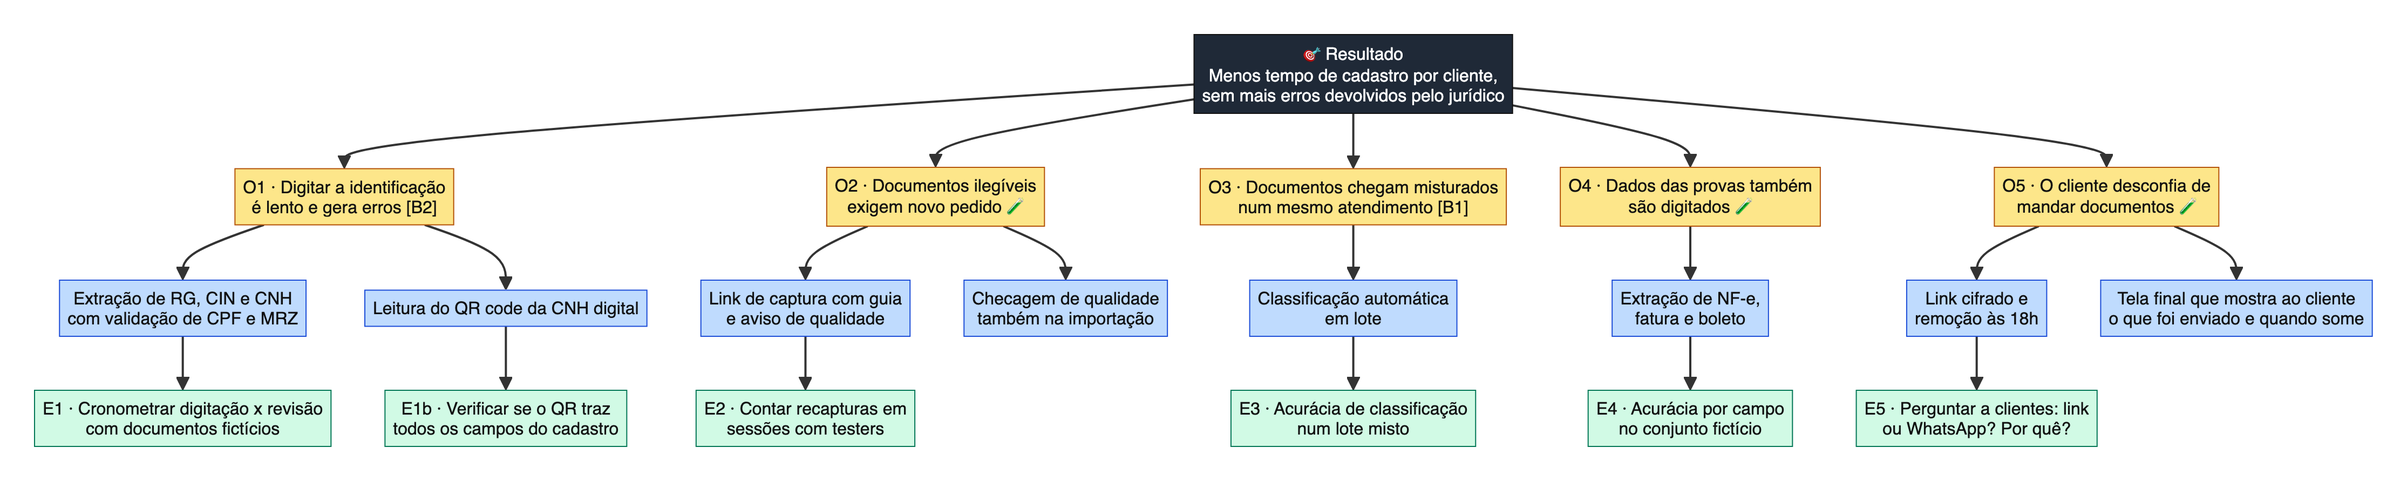
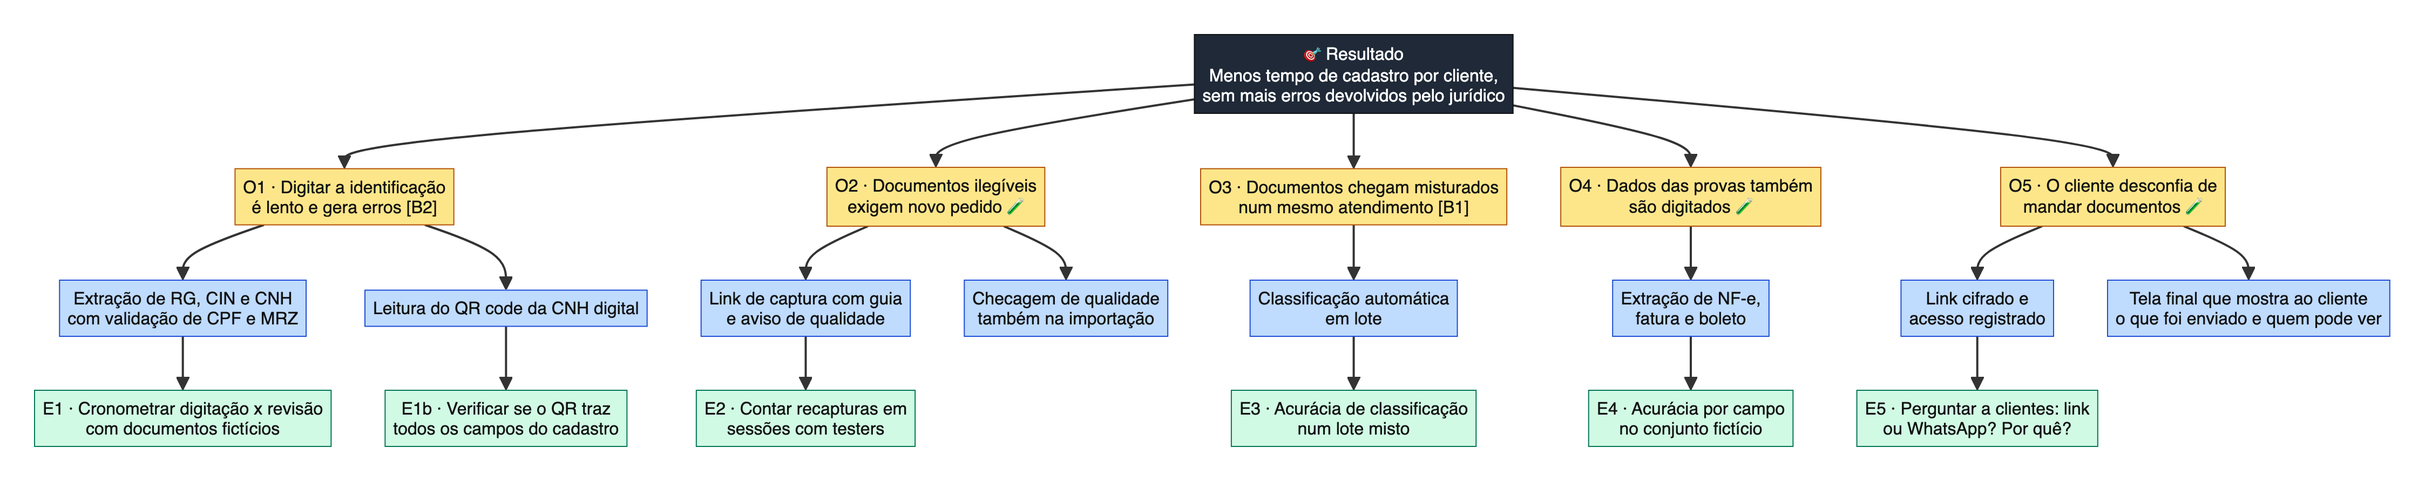
ADR 0008: armazenamento em produção; regra das 18h restrita ao estudo de caso

diff --git a/docs/etapas/04-estrategia.md b/docs/etapas/04-estrategia.md
@@ -16,9 +16,11 @@ As afirmações seguem as marcações das personas: **[A1]–[B4]** indicam acha
 > **que** perdem tempo digitando documentos e pagam caro por um erro que chega ao processo,
 > **o produto** é um cadastro por documentos que identifica, lê e confere os dados sozinho,
 > **e que**, diferente do cadastro por foto de um documento por vez, cobre identificação, comprovante e provas num único atendimento,
-> **com** retenção mínima: tudo é cifrado e nada sobrevive às 18h.
+> **com** documentos cifrados do celular ao armazenamento e cada acesso registrado.
 
-**Em uma frase:** cadastrar um cliente completo, de forma ágil e precisa, sem digitar e sem guardar o que não precisa.
+**Em uma frase:** cadastrar um cliente completo, de forma ágil e precisa, sem digitar e com os documentos protegidos.
+
+A visão, o PR/FAQ e os mapas de jornada descrevem o **produto em produção** ([ADR 0008](../decisoes/0008-armazenamento-em-producao.md)). A remoção às 18h é uma regra do estudo de caso ([ADR 0007](../decisoes/0007-retencao-temporaria-e-purga-diaria.md)) e não aparece como promessa ao cliente.
 
 ### Princípios de produto
 
@@ -26,7 +28,7 @@ As afirmações seguem as marcações das personas: **[A1]–[B4]** indicam acha
 |---|---|---|
 | **Revisão humana sempre** | O sistema sugere e a pessoa confirma. Nenhum dado vai adiante sem confirmação | [ADR 0004](../decisoes/0004-revisao-humana-e-ciclo-de-aprendizado.md) |
 | **Conferir antes de mostrar** | Todo campo com dígito verificador (CPF, chave da NF-e, linha digitável, MRZ) é validado antes da revisão | [Validadores](../../src/extracao/validacoes.py) |
-| **Servidor cego** | O servidor transporta e guarda só conteúdo cifrado | [ADR 0001](../decisoes/0001-transporte-cross-device.md), [ADR 0007](../decisoes/0007-retencao-temporaria-e-purga-diaria.md) |
+| **Proteção do início ao fim** | A captura é cifrada ponta a ponta; o armazenamento é cifrado e cada acesso fica registrado | [ADR 0001](../decisoes/0001-transporte-cross-device.md), [ADR 0008](../decisoes/0008-armazenamento-em-producao.md) |
 | **Sem instalar nada** | O cliente usa a câmera pelo navegador, a partir de um link | RF-03, HU-14 |
 | **Recusar é melhor que errar** | Diante da dúvida, o sistema marca "não reconhecido" em vez de inventar um valor | RF-10, RF-15 |
 
@@ -36,7 +38,7 @@ As afirmações seguem as marcações das personas: **[A1]–[B4]** indicam acha
 |---|---|
 | Software de gestão jurídica | O cadastro alimenta essas ferramentas; não as substitui **[B4]** |
 | Verificação de identidade (KYC) | Não faz biometria nem prova de vida; esse mercado já é atendido **[A4]** |
-| Arquivo de documentos | O escritório guarda os arquivos no próprio ambiente; o produto remove tudo às 18h |
+| Gestão eletrônica de documentos | Guarda os documentos do cadastro, mas não organiza processos nem peças; isso é papel do software jurídico |
 | Leitor de qualquer documento | Seis tipos, escolhidos por aparecerem no mesmo atendimento **[B1]** |
 
 ---
@@ -63,8 +65,8 @@ flowchart TB
     O2 --> S2b["Checagem de qualidade<br/>também na importação"]
     O3 --> S3a["Classificação automática<br/>em lote"]
     O4 --> S4a["Extração de NF-e,<br/>fatura e boleto"]
-    O5 --> S5a["Link cifrado e<br/>remoção às 18h"]
-    O5 --> S5b["Tela final que mostra ao cliente<br/>o que foi enviado e quando some"]
+    O5 --> S5a["Link cifrado e<br/>acesso registrado"]
+    O5 --> S5b["Tela final que mostra ao cliente<br/>o que foi enviado e quem pode ver"]
 
     S1a --> E1["E1 · Cronometrar digitação x revisão<br/>com documentos fictícios"]
     S1b --> E1b["E1b · Verificar se o QR traz<br/>todos os campos do cadastro"]
@@ -111,13 +113,13 @@ Formato da Amazon (*Working Backwards*): a comunicação de lançamento é escri
 
 > **Escritórios de direito do consumidor passam a cadastrar clientes completos em uma única interação, sem digitar**
 >
-> *Identificação, comprovante de residência e provas do caso são lidos, conferidos e separados automaticamente, e nada fica guardado depois das 18h*
+> *Identificação, comprovante de residência e provas do caso são lidos, conferidos e separados automaticamente, com os documentos protegidos do celular ao arquivo*
 >
 > Um escritório de advocacia de massa recebe dezenas de clientes por dia. Cada um envia RG ou CNH, uma conta de luz e as provas da cobrança que contesta: notas fiscais, faturas e boletos. Hoje, uma assistente digita esses dados, documento por documento, e um CPF errado na procuração volta da equipe jurídica ou chega ao processo.
 >
 > Com o novo cadastro por documentos, a assistente envia ao cliente um link. Ele fotografa os documentos com o celular, sem instalar nada, e os dados aparecem no computador do escritório já separados por tipo e conferidos: CPF, chave da nota fiscal e linha digitável do boleto passam por validação antes de chegar à tela. A assistente só confirma ou corrige cada campo. Arquivos recebidos pelo WhatsApp podem ser importados da mesma forma.
 >
-> Os documentos trafegam cifrados de ponta a ponta. Durante o dia ficam guardados na nuvem, ainda cifrados e com uma chave que só o escritório tem. Às 18h tudo é removido e a chave é destruída.
+> Os documentos trafegam cifrados de ponta a ponta e ficam guardados cifrados, com uma chave exclusiva de cada escritório. Só pessoas autorizadas acessam, cada acesso é registrado, e os documentos são apagados automaticamente no prazo que o escritório definir.
 >
 > *"Antes eu digitava três documentos por cliente e conferia o CPF duas vezes. Agora eu confiro só o que o sistema marca em dúvida"*, diz Juliana, assistente de cadastro de um escritório fictício usado no estudo.
 
@@ -129,8 +131,8 @@ Formato da Amazon (*Working Backwards*): a comunicação de lançamento é escri
 | O cliente precisa instalar um aplicativo? | Não. O link abre a câmera no navegador do celular. |
 | E se a foto ficar ruim? | A página de captura avisa antes do envio e pede uma nova foto. |
 | O sistema pode errar? | Pode. Por isso nada segue sem a confirmação de uma pessoa, e os campos com dígito verificador são conferidos antes. |
-| Onde ficam os documentos? | Cifrados na nuvem até as 18h do mesmo dia. Depois disso, só no pacote que o escritório baixou e guarda no próprio ambiente. |
-| E se eu esquecer de baixar? | A partir das 17h o sistema avisa e mostra uma contagem regressiva. Às 18h, o que não foi baixado é perdido. |
+| Onde ficam os documentos? | Cifrados na nuvem, com uma chave exclusiva do escritório. Só usuários autorizados acessam, e cada acesso fica registrado. |
+| Por quanto tempo ficam guardados? | Pelo prazo que o escritório definir. Depois são apagados automaticamente, e o cliente pode pedir a exclusão a qualquer momento (LGPD). |
 
 ### Perguntas internas
 
@@ -171,9 +173,9 @@ O mapa mostra a jornada **atual** (sem o produto), com ações, pensamentos, emo
 | **Emoção** | 🙂 | 😐 | 😕 | 😟 | 😐 |
 | **Dor** | — | Lista confusa | Não sabe se a foto serve | Insegurança com os documentos | Não sabe se precisa reenviar |
 | **Oportunidade** | — | O2 | O2 | O5 | O2 |
-| **Com o produto** | — | Recebe um link com a lista | A página guia a foto e avisa se ficou ruim | Envio cifrado; sabe quando os dados somem | Vê a confirmação na tela |
+| **Com o produto** | — | Recebe um link com a lista | A página guia a foto e avisa se ficou ruim | Envio cifrado; sabe quem terá acesso | Vê a confirmação na tela |
 
-**Momento crítico:** a fase 4. O WhatsApp é o hábito. O link precisa ser mais simples que ele, e a promessa de remoção às 18h é o que pode convencer Roberto a trocar (E5).
+**Momento crítico:** a fase 4. O WhatsApp é o hábito. O link precisa ser mais simples que ele, e a garantia de que só o escritório acessa os documentos é o que pode convencer Roberto a trocar (E5).
 
 ---
 
@@ -181,6 +183,7 @@ O mapa mostra a jornada **atual** (sem o produto), com ações, pensamentos, emo
 
 - **A ordem foi invertida.** Na prática, visão e árvore de oportunidades vêm antes do PRD. Aqui o PRD veio primeiro (Etapa 2) e a árvore serviu para conferi-lo. A conferência encontrou um ponto que o PRD não cobria: a checagem de qualidade na importação (S2b).
 - **Oportunidades sem dados primários.** O2, O4 e O5 dependem das entrevistas. A ordem da tabela de oportunidades pode mudar depois delas.
+- **Estudo e produção foram misturados na primeira versão.** A remoção às 18h, regra de proteção do estudo, chegou a aparecer como promessa ao cliente. A correção separou os dois contextos nos ADRs [0007](../decisoes/0007-retencao-temporaria-e-purga-diaria.md) e [0008](../decisoes/0008-armazenamento-em-producao.md).
 - **O PR/FAQ é um exercício de clareza, não uma previsão.** Os depoimentos são de personas, não de pessoas reais.
 
 ## Entregáveis

diff --git a/docs/requisitos.md b/docs/requisitos.md
@@ -6,7 +6,7 @@
 
 ## 1. Resumo
 
-Sistema que recebe documentos por **importação de arquivo** no computador ou por **captura com o celular** (fluxo cross-device via QR code), identifica automaticamente o tipo, extrai os dados e os exibe numa tela de revisão para o usuário confirmar ou recusar cada campo. O que o sistema guarda fica cifrado com uma chave que só o escritório tem e é removido às 18h de cada dia ([ADR 0007](decisoes/0007-retencao-temporaria-e-purga-diaria.md)).
+Sistema que recebe documentos por **importação de arquivo** no computador ou por **captura com o celular** (fluxo cross-device via QR code), identifica automaticamente o tipo, extrai os dados e os exibe numa tela de revisão para o usuário confirmar ou recusar cada campo. No estudo de caso, o que o sistema guarda fica cifrado e é removido às 18h de cada dia ([ADR 0007](decisoes/0007-retencao-temporaria-e-purga-diaria.md)); em produção, os documentos seriam guardados cifrados pelo prazo que o escritório definir ([ADR 0008](decisoes/0008-armazenamento-em-producao.md)).
 
 ## 2. Problema
 
@@ -24,9 +24,17 @@ Detalhamento, fontes e histórico em [Personas](persona.md).
 
 ## 4. Tese do MVP
 
-> É possível cadastrar um cliente, com identificação, comprovante de residência e provas, numa única interação, de forma **ágil** e **precisa**, capturando os documentos pelo celular do próprio cliente ou importando arquivos, com retenção mínima: tudo o que o sistema guarda é cifrado e removido às 18h de cada dia.
+> É possível cadastrar um cliente, com identificação, comprovante de residência e provas, numa única interação, de forma **ágil** e **precisa**, capturando os documentos pelo celular do próprio cliente ou importando arquivos, com os documentos protegidos do envio ao armazenamento.
 
-**Promessa de privacidade:** o servidor nunca vê o conteúdo, e nada sobrevive às 18h. Dados e fotos podem ficar salvos na nuvem durante o dia, sempre cifrados com uma chave que só o escritório tem; às 18h (Brasília) tudo é removido e a chave é destruída, e nenhum item permanece por 24h ([ADR 0007](decisoes/0007-retencao-temporaria-e-purga-diaria.md)). O pacote baixado fica sob responsabilidade do escritório, como controlador dos dados (LGPD).
+**Segurança dos dados, em dois contextos:**
+
+| | Estudo de caso (o que é construído) | Produção (desenho de referência) |
+|---|---|---|
+| Regra | Nada sobrevive às 18h; nenhum item chega a 24h ([ADR 0007](decisoes/0007-retencao-temporaria-e-purga-diaria.md)) | Documentos guardados pelo prazo que o escritório definir ([ADR 0008](decisoes/0008-armazenamento-em-producao.md)) |
+| Por quê | Proteger os documentos de quem testa o sistema | O escritório precisa dos documentos durante todo o processo |
+| Criptografia | Chave do dia só no navegador do escritório; servidor não lê | Chave por escritório num KMS; servidor lê só sob controle de acesso e auditoria |
+
+Nos dois contextos, a captura pelo celular é cifrada ponta a ponta e o escritório é o controlador dos dados (LGPD).
 
 ## 5. Escopo
 
@@ -113,10 +121,10 @@ Prioridade MoSCoW: **M** = obrigatório, **S** = importante, **C** = desejável,
 
 | ID | Categoria | Requisito | Critério de aceite | Prior. |
 |---|---|---|---|---|
-| RNF-01 | Privacidade | Retenção máxima até as 18h do dia, nunca 24h ou mais; nada persiste no celular | Teste automatizado verifica, após as 18h, tabela e Storage vazios, chave do dia inexistente e nenhum item com mais de 24h; celular sem resíduo após a sessão | M |
+| RNF-01 | Privacidade (estudo) | Retenção máxima até as 18h do dia, nunca 24h ou mais; nada persiste no celular | Teste automatizado verifica, após as 18h, tabela e Storage vazios, chave do dia inexistente e nenhum item com mais de 24h; celular sem resíduo após a sessão | M |
 | RNF-12 | Privacidade | Conteúdo salvo sempre cifrado | Nenhum campo de conteúdo legível no banco ou no Storage; chave do dia nunca enviada ao servidor | M |
 | RNF-02 | Privacidade | Documento real não sai do celular e do computador em texto aberto | Só dados cifrados trafegam pelo canal de repasse; motor de leitura é local | M |
-| RNF-03 | Privacidade | Remoção diária às 18h em três camadas | Destruição da chave, tarefa agendada às 18h e limite de 24h executado de hora em hora, cada uma com registro anônimo ([ADR 0007](decisoes/0007-retencao-temporaria-e-purga-diaria.md)) | M |
+| RNF-03 | Privacidade (estudo) | Remoção diária às 18h em três camadas | Destruição da chave, tarefa agendada às 18h e limite de 24h executado de hora em hora, cada uma com registro anônimo ([ADR 0007](decisoes/0007-retencao-temporaria-e-purga-diaria.md)) | M |
 | RNF-04 | Segurança | Sessão protegida contra uso indevido | Identificador e chave aleatórios de 128 bits ou mais; uso único; expiração | M |
 | RNF-05 | Desempenho | Rápido o suficiente | Meta de tempo até o resultado completo definida na etapa de métricas a partir da linha de base | M |
 | RNF-06 | Acurácia | Acerto alto por campo | Meta definida a partir da linha de base no conjunto de desenvolvimento | M |
@@ -135,7 +143,7 @@ Prioridade MoSCoW: **M** = obrigatório, **S** = importante, **C** = desejável,
 | Tempo até o resultado | Da captura ou importação até os campos na tela | A definir na linha de base |
 | Tempo de cadastro por cliente (**ágil**) | Do início da sessão até todos os campos do cliente confirmados | A definir na linha de base |
 | Recapturas por documento | Quantas vezes um documento precisou ser fotografado de novo | A definir na linha de base |
-| Retenção respeitada | % de dias em que nada sobrevive às 18h e nenhum item chega a 24h | 100% |
+| Retenção respeitada (estudo) | % de dias em que nada sobrevive às 18h e nenhum item chega a 24h | 100% |
 | Taxa de "não reconhecido" correto | % de documentos fora do escopo marcados como "não reconhecido" | A definir na linha de base |
 
 ## 10. Premissas e dependências

diff --git a/docs/decisoes/0008-armazenamento-em-producao.md b/docs/decisoes/0008-armazenamento-em-producao.md
@@ -1,0 +1,40 @@
+# 0008 — Armazenamento dos documentos em produção
+
+**Data:** 10/11/2026
+**Status:** Aceita como desenho de referência · **não implementada no estudo de caso**, que segue o [ADR 0007](0007-retencao-temporaria-e-purga-diaria.md)
+
+## Contexto
+
+O [ADR 0007](0007-retencao-temporaria-e-purga-diaria.md) define uma regra do **estudo de caso**: dados e fotos ficam cifrados na nuvem durante o dia e são removidos às 18h. Ela existe para proteger os documentos das pessoas que testam o sistema, e não descreve o produto.
+
+Um escritório em operação precisa guardar os documentos dos clientes por todo o tempo do processo. Várias assistentes acessam o mesmo cadastro, a advogada anexa os arquivos à petição e o cliente pode pedir a exclusão dos dados a qualquer momento (LGPD). Para o produto funcionar de ponta a ponta no estudo, esse armazenamento não precisa ser construído, mas o desenho precisa estar decidido. Sem isso, o estudo deixaria sem resposta uma pergunta óbvia: "e em produção?".
+
+A pergunta central é **quem consegue ler os documentos guardados**.
+
+## Decisão
+
+**Criptografia em repouso controlada pela aplicação, reforçada com chave por escritório, controle de acesso, trilha de auditoria e retenção definida pelo escritório.** O servidor da aplicação consegue ler os documentos, mas só sob regras explícitas e com registro de cada acesso.
+
+| Camada | Como | Protege contra |
+|---|---|---|
+| **Transporte** | TLS em todas as conexões; captura pelo celular continua cifrada ponta a ponta ([ADR 0001](0001-transporte-cross-device.md)) | Interceptação na rede |
+| **Repouso, pelo provedor** | Banco e Storage cifrados pelo provedor (AES-256) | Roubo de disco ou de mídia de backup |
+| **Repouso, pela aplicação** | Criptografia de envelope: cada arquivo tem uma chave própria, protegida por uma **chave mestra do escritório** guardada num serviço de gerenciamento de chaves (KMS), com rotação periódica | Vazamento do banco: o conteúdo copiado continua ilegível sem acesso ao KMS |
+| **Isolamento entre escritórios** | Row Level Security por escritório e chaves mestras separadas | Um escritório ver dados de outro, por erro ou ataque |
+| **Controle de acesso** | Perfis (assistente, advogada, administrador), autenticação com segundo fator, sessões curtas | Acesso indevido dentro do escritório ou por senha vazada |
+| **Trilha de auditoria** | Registro de quem abriu, baixou, alterou ou excluiu cada documento, sem gravar o conteúdo | Uso indevido não detectado; exigência de prestação de contas da LGPD |
+| **Retenção** | Prazo definido por escritório, com exclusão automática ao fim; exclusão e exportação a pedido do titular | Guarda além do necessário |
+| **Backups** | Cifrados, com prazo próprio, e exclusão de chaves aplicada também a eles | Dado excluído que sobrevive em backup |
+
+## Alternativas consideradas
+
+- **Criptografia ponta a ponta com a chave só com o escritório (servidor cego)** — segurança máxima: nem o fornecedor lê os documentos. Mas se o escritório perder a chave, perde todos os documentos; compartilhar entre várias estações e usuários é complexo; busca e processamento no servidor ficam impossíveis. Recusada pelo custo operacional num escritório de massa, onde várias pessoas acessam o mesmo cadastro.
+- **Só a criptografia padrão do provedor** — simples, mas um vazamento do banco ou um acesso indevido ao servidor expõe tudo, e não existe registro de quem acessou o quê. Recusada por ser insuficiente para documentos de identificação.
+- **Manter a remoção diária do ADR 0007 em produção** — incompatível com o uso real: o escritório precisa dos documentos durante todo o processo. Recusada.
+
+## Consequências
+
+- **A segurança passa a depender da confiança no operador.** Quem administra o KMS e o servidor pode, em tese, ler os documentos. A trilha de auditoria e a separação de funções reduzem esse risco, mas não o eliminam. É a troca aceita em favor da operação.
+- **A promessa ao cliente muda.** Ela deixa de ser "nada sobrevive às 18h" e passa a ser "seus documentos ficam cifrados, só pessoas autorizadas do escritório acessam, cada acesso é registrado e tudo é apagado no prazo definido".
+- **Novos componentes:** KMS, perfis de acesso, trilha de auditoria e rotinas de retenção e de exclusão a pedido. Nenhum deles é construído no estudo de caso.
+- **O que o estudo aproveita:** o fluxo de captura cifrado ponta a ponta, a revisão humana e o motor de extração não mudam. Só a camada de armazenamento é trocada.

diff --git a/docs/decisoes/0007-retencao-temporaria-e-purga-diaria.md b/docs/decisoes/0007-retencao-temporaria-e-purga-diaria.md
@@ -1,13 +1,15 @@
 # 0007 — Retenção temporária cifrada com remoção diária às 18h
 
 **Data:** 10/11/2026
-**Status:** Aceita · substitui a regra "nada salvo no servidor" do [ADR 0001](0001-transporte-cross-device.md) e a proibição de banco e Storage do [ADR 0005](0005-infraestrutura-vercel-supabase-realtime.md)
+**Status:** Aceita · **vale só para o estudo de caso**; o armazenamento em produção está no [ADR 0008](0008-armazenamento-em-producao.md) · substitui a regra "nada salvo no servidor" do [ADR 0001](0001-transporte-cross-device.md) e a proibição de banco e Storage do [ADR 0005](0005-infraestrutura-vercel-supabase-realtime.md)
 
 ## Contexto
 
 No segmento de advocacia de alto volume ([Etapa 3](../etapas/03-validacao-do-problema.md)), o escritório precisa dos dados e das fotos ao longo do dia: o cadastro pode ser concluído numa estação e consultado depois, e os arquivos precisam ser baixados para instruir a petição. A regra anterior, de nada salvo em lugar nenhum, impedia esse uso.
 
-Nova regra de produto, definida para o estudo de caso:
+A regra abaixo é do **estudo de caso**, e não do produto. Ela protege os documentos das pessoas que testam o sistema: o estudo precisa funcionar de ponta a ponta sem acumular dados pessoais. Em produção, o escritório guarda os documentos por todo o processo ([ADR 0008](0008-armazenamento-em-producao.md)).
+
+Regra do estudo:
 
 - Dados extraídos e fotos **podem ser salvos**, inclusive na nuvem.
 - **Nada pode ficar disponível ou salvo na nuvem por 24 horas.**
@@ -53,7 +55,7 @@ O pacote baixado (arquivos e dados confirmados) sai do sistema e fica sob respon
 
 ## Consequências
 
-- O produto pode afirmar: **o servidor nunca vê o conteúdo, e nada sobrevive às 18h**, nem em backups, porque a chave deixa de existir.
+- O estudo pode afirmar: **o servidor nunca vê o conteúdo, e nada sobrevive às 18h**, nem em backups, porque a chave deixa de existir.
 - Como a chave do dia fica num único navegador, outras estações não leem os dados no estudo de caso. Compartilhar a chave entre estações exige uma decisão futura.
 - Um cadastro iniciado perto das 18h pode ser perdido se não for baixado a tempo; o aviso reduz, mas não elimina, esse risco.
 - Os testes de privacidade passam a verificar: tabela e Storage vazios após as 18h, nenhum item com mais de 24h e chave do dia inexistente após as 18h.

diff --git a/docs/competencias.md b/docs/competencias.md
@@ -28,7 +28,8 @@ Legenda: ✅ demonstrado · 🟡 parcial · ⚪ planejado
 
 | Competência | Evidência | Situação |
 |---|---|---|
-| Decisões arquiteturais registradas | ADRs [0001](decisoes/0001-transporte-cross-device.md), [0002](decisoes/0002-motor-de-leitura-e-extracao.md), [0005](decisoes/0005-infraestrutura-vercel-supabase-realtime.md), [0006](decisoes/0006-ocr-apple-vision.md) | ✅ |
+| Decisões arquiteturais registradas | ADRs [0001](decisoes/0001-transporte-cross-device.md), [0002](decisoes/0002-motor-de-leitura-e-extracao.md), [0005](decisoes/0005-infraestrutura-vercel-supabase-realtime.md), [0006](decisoes/0006-ocr-apple-vision.md), [0007](decisoes/0007-retencao-temporaria-e-purga-diaria.md), [0008](decisoes/0008-armazenamento-em-producao.md) | ✅ |
+| Separar o que é construído do que a produção exigiria | Estudo remove tudo às 18h ([ADR 0007](decisoes/0007-retencao-temporaria-e-purga-diaria.md)); produção guarda com chave por escritório, auditoria e retenção ([ADR 0008](decisoes/0008-armazenamento-em-producao.md)) | ✅ |
 | Segurança por arquitetura | Criptografia ponta a ponta com chave no fragmento da URL; servidor cego ao conteúdo | ✅ |
 | Diagramas de arquitetura | [Fluxogramas](arquitetura/fluxogramas.md): componentes, sequência, estados | ✅ |
 | Desacoplamento e portabilidade | Interface de OCR trocável | 🟡 Na implementação |

diff --git a/docs/etapas/01-documentos-e-campos.md b/docs/etapas/01-documentos-e-campos.md
@@ -112,7 +112,7 @@ Exemplo de registro:
 
 | Regra | Como é garantida |
 |---|---|
-| Retenção mínima na nuvem | Dados e fotos salvos só cifrados e removidos às 18h de cada dia, nunca por 24h ([ADR 0007](../decisoes/0007-retencao-temporaria-e-purga-diaria.md)); registros de avaliação ficam em arquivo local, sem valores |
+| Retenção mínima na nuvem (estudo) | Dados e fotos salvos só cifrados e removidos às 18h de cada dia, nunca por 24h ([ADR 0007](../decisoes/0007-retencao-temporaria-e-purga-diaria.md)); registros de avaliação ficam em arquivo local, sem valores |
 | Documentos reais nunca vão para o repositório | `data/privado/` ignorado pelo git, e PDFs e imagens bloqueados fora de `data/exemplos/` |
 | Prints na documentação usam só documentos fictícios | Revisão antes de cada commit |
 | Nome do arquivo não pode entregar a resposta | Arquivos reais são renomeados para nomes neutros na importação (ex.: `nfe-01.pdf`). O nome padrão de download de uma NF-e é a própria chave de acesso, o que vazaria um campo avaliado e dados do emitente |

diff --git a/docs/decisoes/README.md b/docs/decisoes/README.md
@@ -32,4 +32,5 @@ O que muda, o que fica mais fácil e o que fica mais difícil.
 | [0004](0004-revisao-humana-e-ciclo-de-aprendizado.md) | Revisão humana: confirmar/recusar por campo; aprendizado só com fictícios, medição com reais | Aceita |
 | [0005](0005-infraestrutura-vercel-supabase-realtime.md) | Infraestrutura: Vercel (frontend) + Supabase Realtime Broadcast (repasse) | Aceita (banco e Storage liberados pelo 0007) |
 | [0006](0006-ocr-apple-vision.md) | OCR: Apple Vision atrás de interface trocável | Aceita |
-| [0007](0007-retencao-temporaria-e-purga-diaria.md) | Retenção temporária cifrada; remoção diária às 18h; nada na nuvem por 24h | Aceita |
+| [0007](0007-retencao-temporaria-e-purga-diaria.md) | Retenção temporária cifrada; remoção diária às 18h; nada na nuvem por 24h | Aceita (só no estudo de caso) |
+| [0008](0008-armazenamento-em-producao.md) | Armazenamento em produção: criptografia com chave por escritório, controle de acesso, auditoria e retenção definida pelo escritório | Aceita como referência (não implementada) |

diff --git a/docs/persona.md b/docs/persona.md
@@ -90,7 +90,7 @@ Os seis tipos do escopo aparecem num **único atendimento**, misturados, e o sis
 | Necessidade | Dados de qualificação corretos e provas organizadas, com os arquivos disponíveis para anexar ao processo **[B1]** |
 | Impacto do produto | Menos devoluções de cadastro e menos retrabalho na petição 🧪 |
 
-**Requisito que ela revela:** o escritório **precisa ficar com os arquivos**. O sistema não retém nada, mas entrega os documentos e os dados ao escritório, que os guarda no próprio ambiente ([Etapa 3, tensões](etapas/03-validacao-do-problema.md#tensões-identificadas)).
+**Requisito que ela revela:** o escritório **precisa ficar com os arquivos**. Em produção, o sistema guarda os documentos cifrados, com acesso controlado e pelo prazo que o escritório definir ([ADR 0008](decisoes/0008-armazenamento-em-producao.md)). No estudo de caso, para proteger quem testa, tudo é removido às 18h e o escritório baixa o que precisa ([ADR 0007](decisoes/0007-retencao-temporaria-e-purga-diaria.md)).
 
 ---
 
